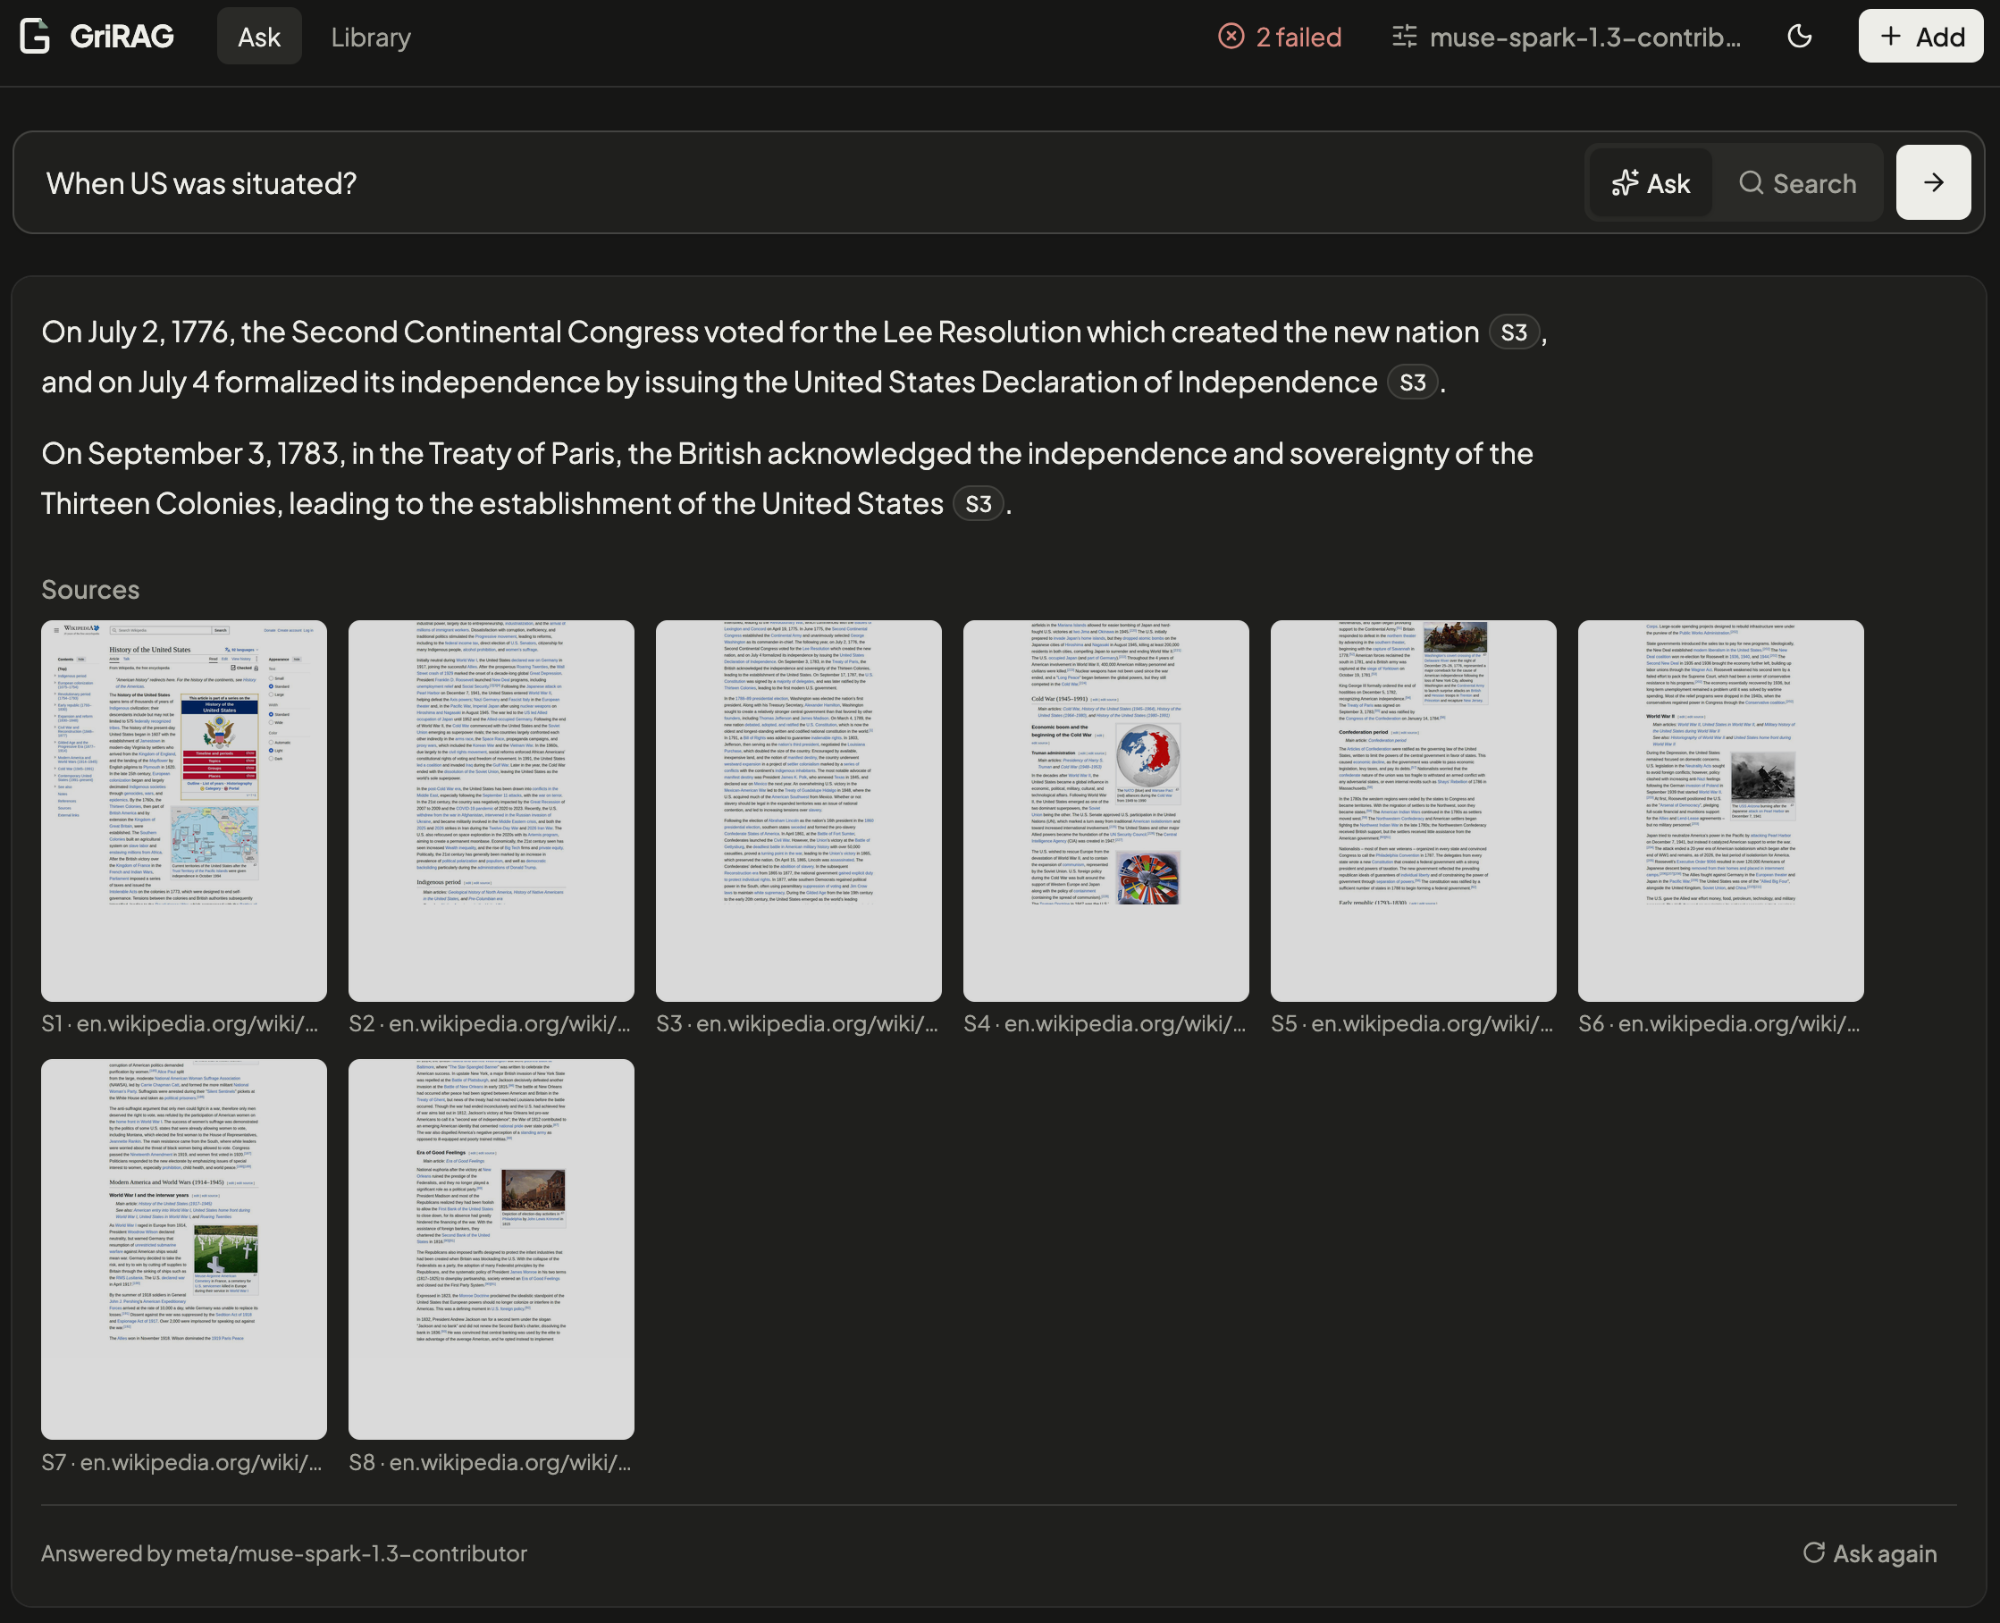
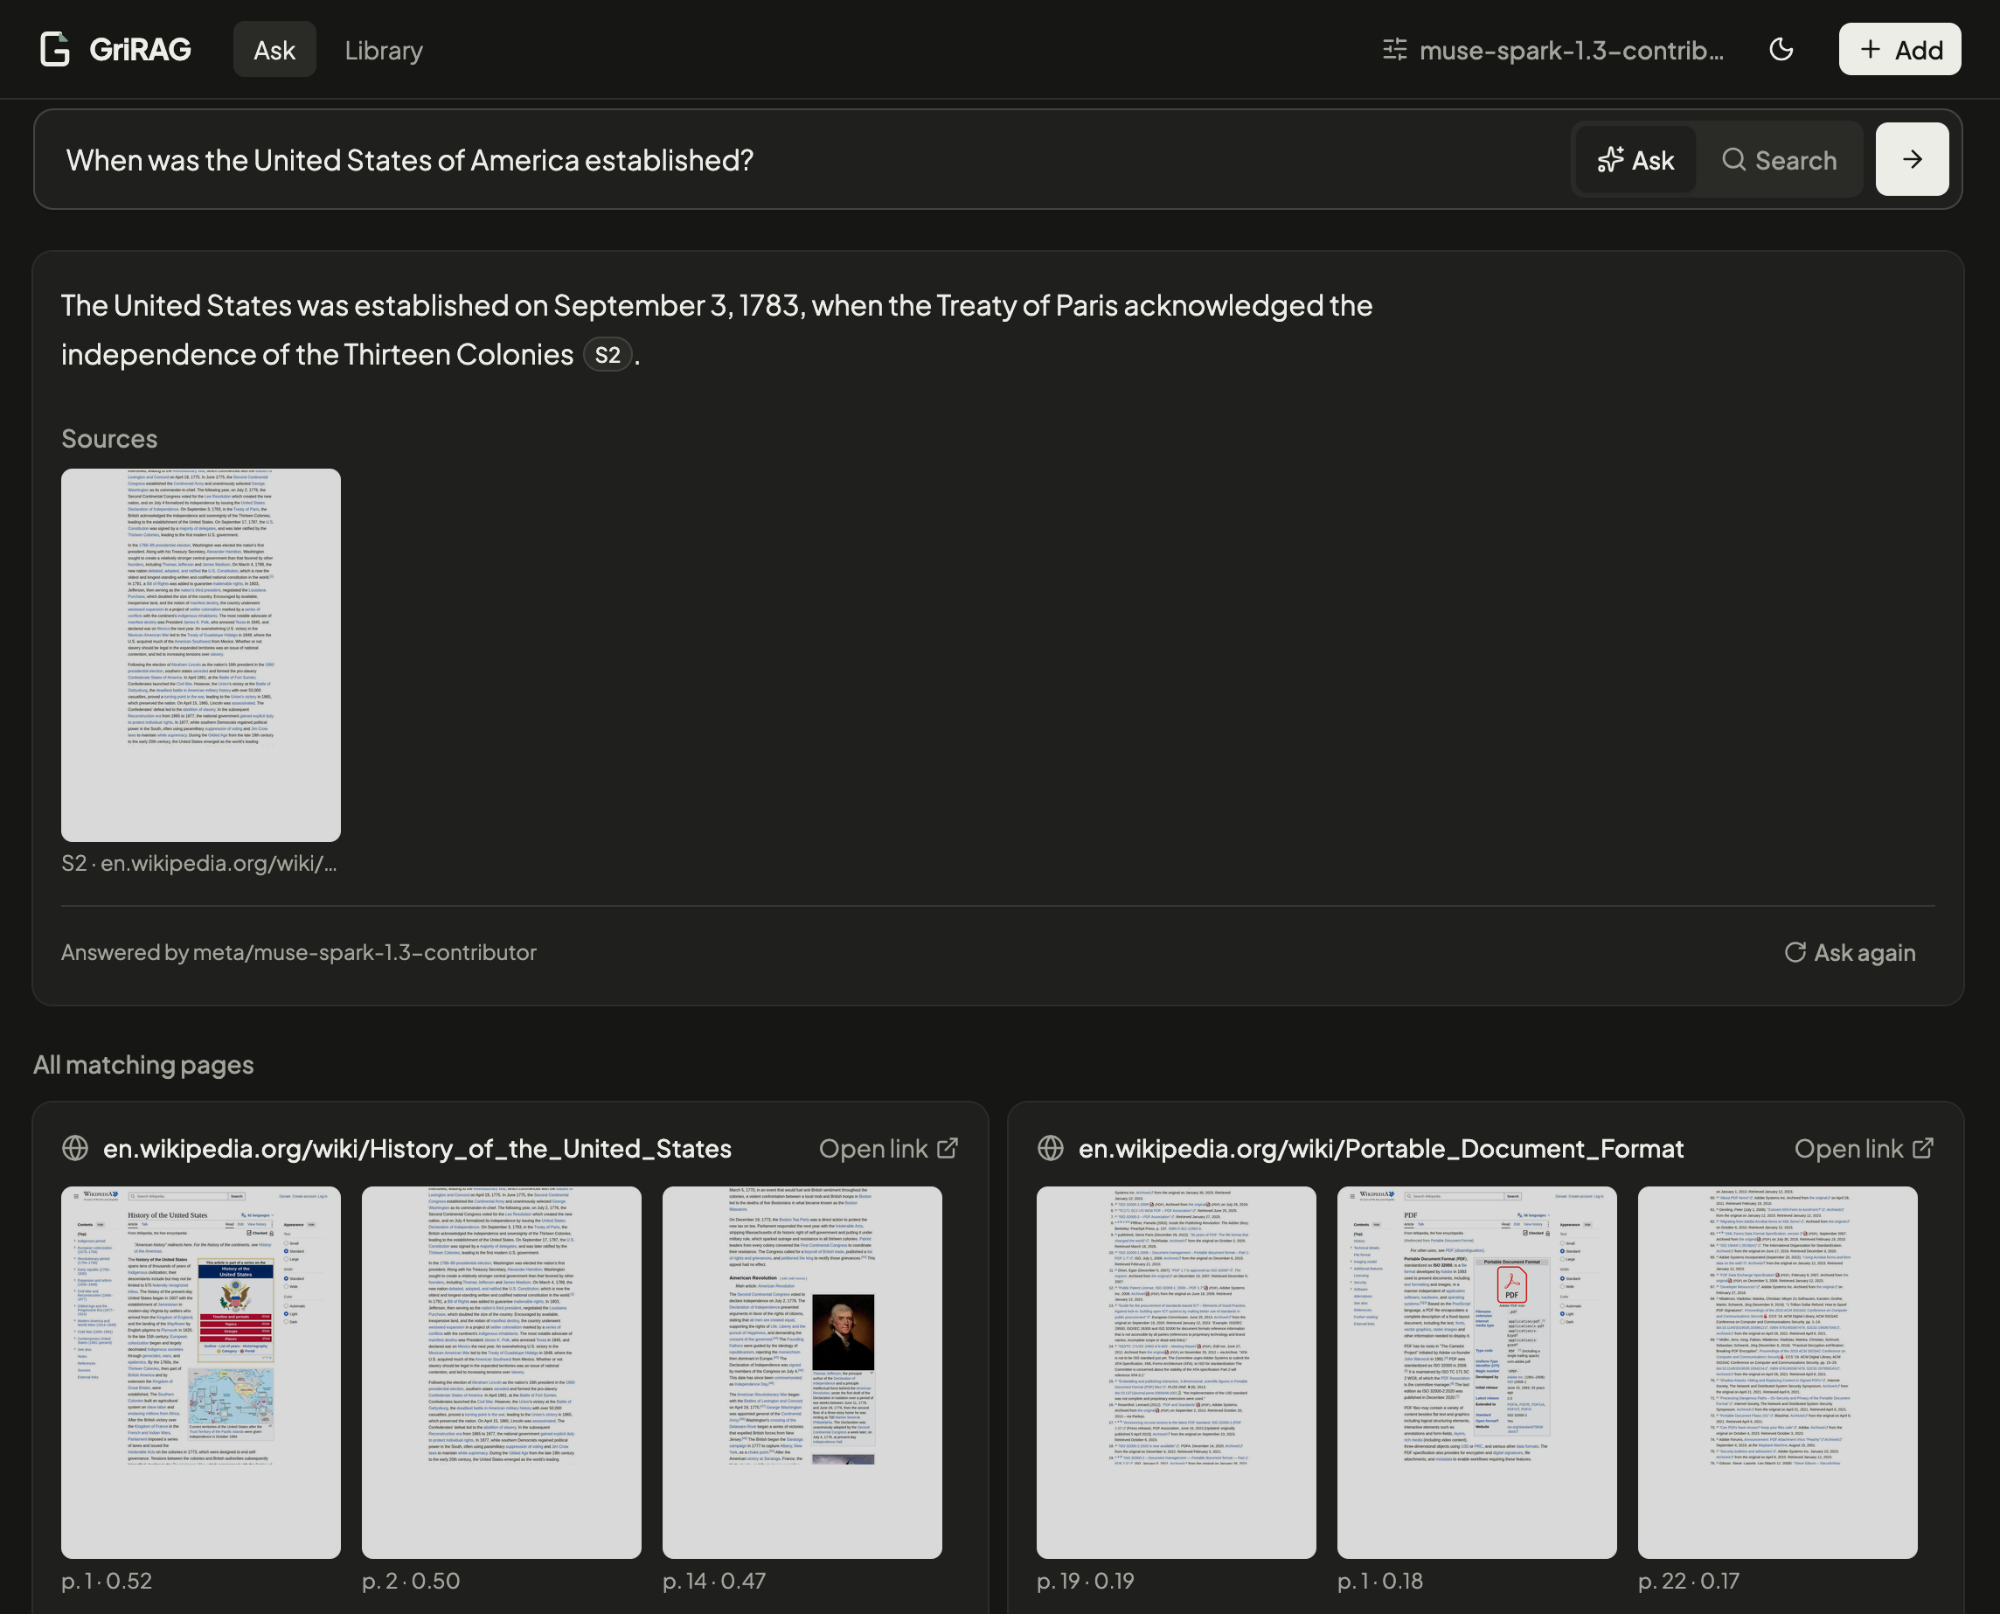
docs: new answer and home screenshots

diff --git a/README.md b/README.md
@@ -6,7 +6,7 @@ Ask questions about your PDFs, Word files and web pages. GriRAG reads every page
 charts and layout survive, and answers with citations to the exact pages it used. It runs on your computer,
 for one user.
 
-<img src="assets/screenshot.png" alt="GriRAG answering a question about US history with citations to Wikipedia pages, the cited pages shown as thumbnails below the answer.">
+<img src="assets/screenshot.png" alt="GriRAG answering when the United States was established, citing one Wikipedia page, with that page under Sources and all matching pages below.">
 
 ## How it works
 
@@ -42,10 +42,12 @@ make run       # http://127.0.0.1:8000
 
 ## Using it
 
+<img src="assets/screenshot-home.png" alt="The GriRAG home page: an Ask box with Ask and Search modes, and the first page of each document in the library.">
+
 - **Add** files (or drop them anywhere) and links, one per line. Links to a PDF or DOCX are downloaded; other
   links are screenshotted.
-- **Ask** a question to get an answer with citations; click one to see the page. **Search** finds pages
-  without calling the answer model.
+- **Ask** a question to get an answer with citations. Sources shows the pages it cited, and every matching
+  page follows below; click a page to see it large. **Search** finds pages without calling the answer model.
 - **Library** lists every document with its status, with Retry and Delete.
 - **Settings** shows the models and limits. Change them in `.env` and restart.
 
